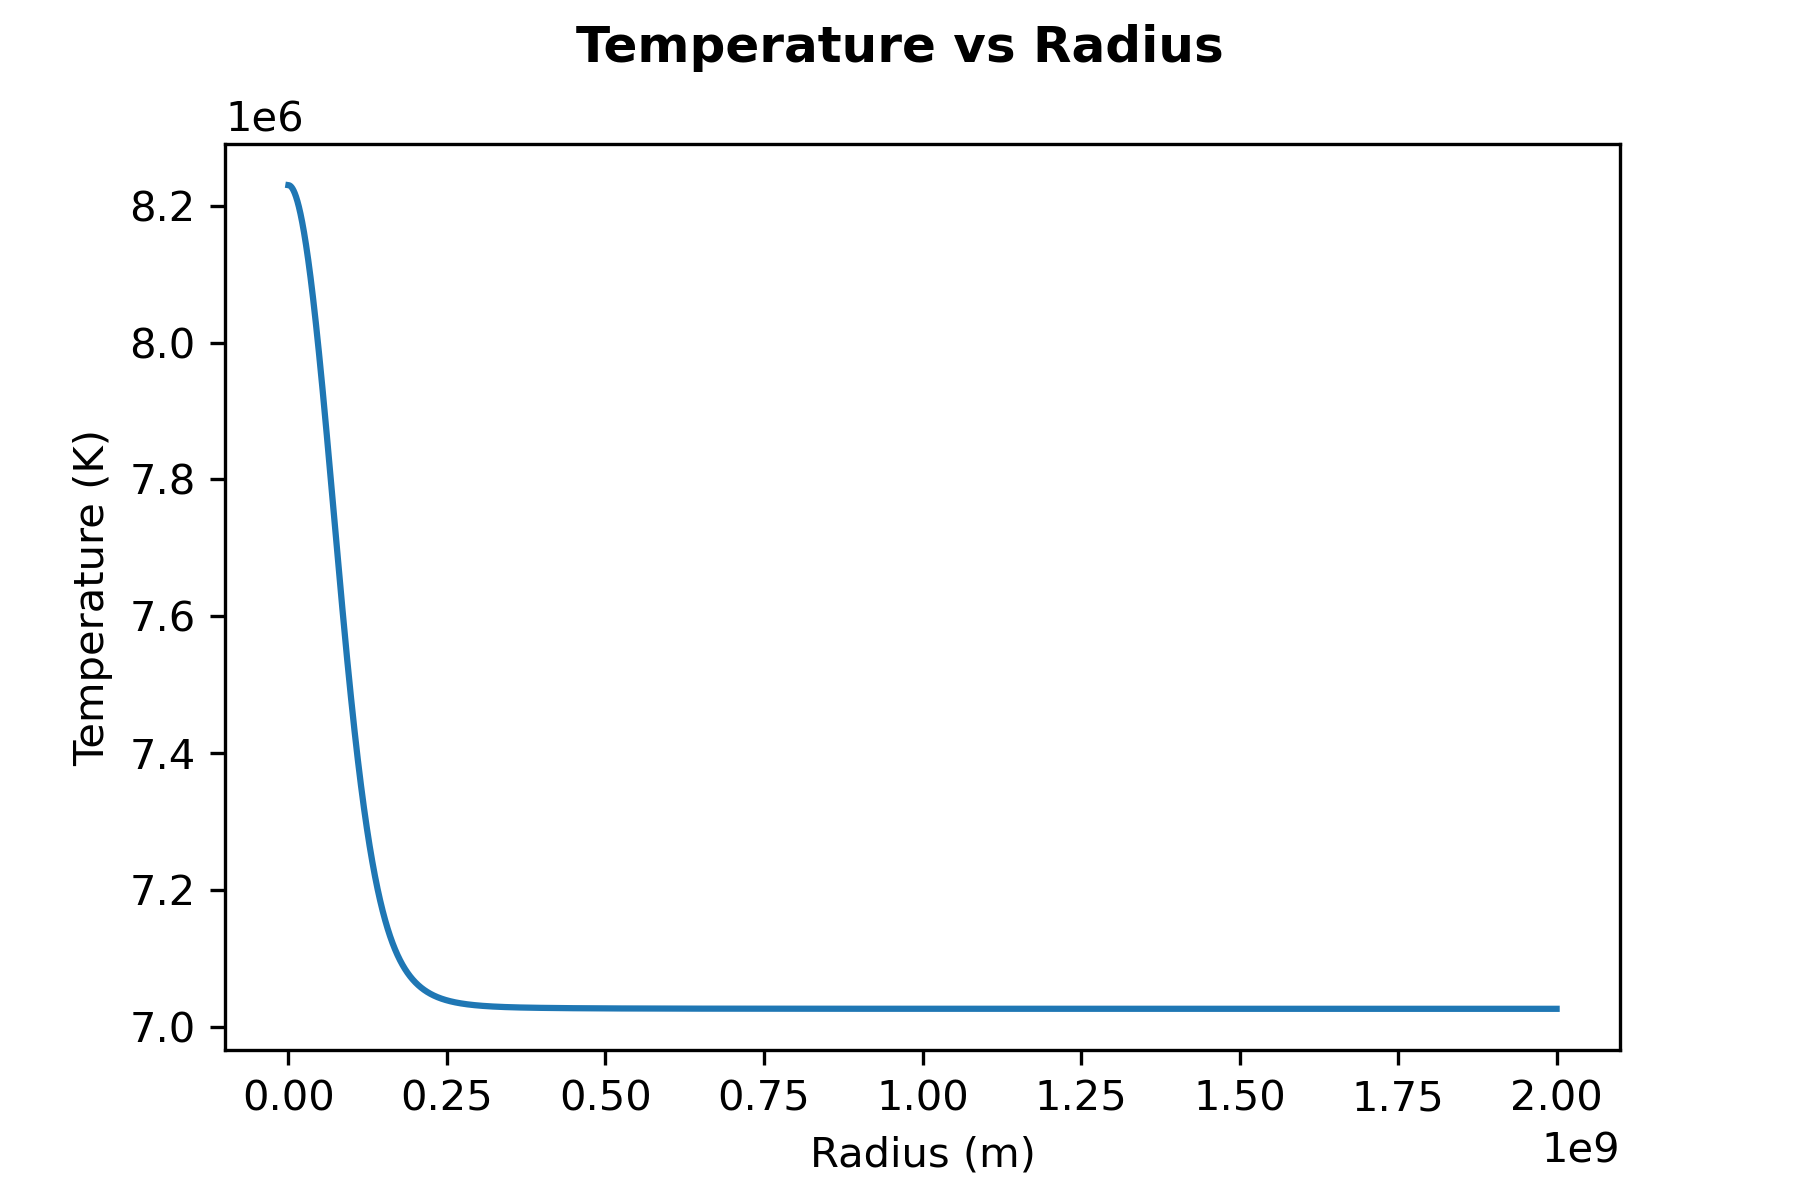
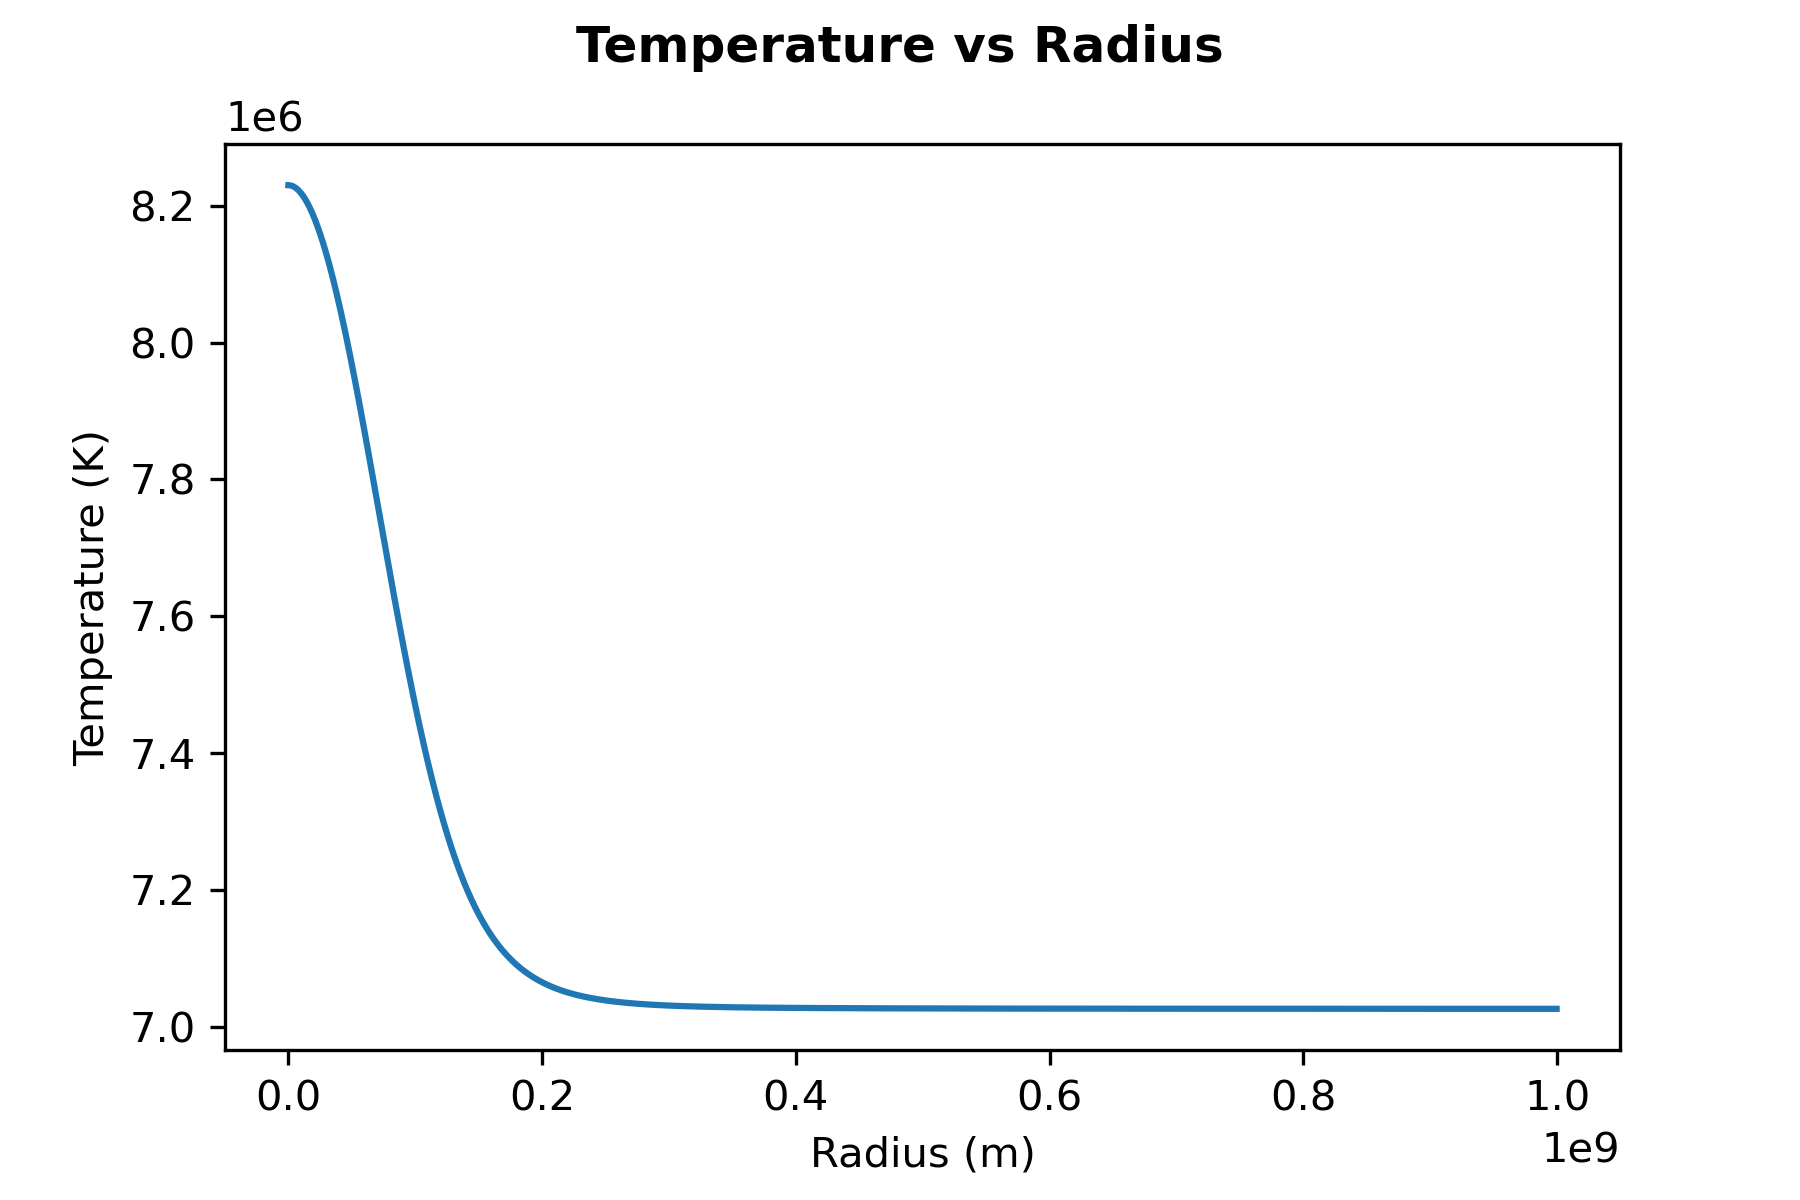
Changed directory names
Changed the directory paths for the GitHub instead of old folder.

diff --git a/Phys375_FinalProject.py b/Phys375_FinalProject.py
@@ -373,7 +373,7 @@ def main():
     RK_obj = RK45(All_Gradients, r, [p, T, M, L, t], max_step=dr,
                   t_bound=10**12)
     
-    N_steps = 2*10**4
+    N_steps = 10**4
     for i in range(N_steps):
         
         RK_obj.step()
@@ -406,7 +406,7 @@ def main():
     ax1.ticklabel_format(axis='both', scilimits=(0,0))
    # ax1.set_yscale('log')##################
     fig1.savefig(os.path.join(os.path.abspath(
-            r"C:\Users\James\Documents\Phys 375_Stars_W2021\Final_Plots"),
+            r"C:\Users\James\Documents\GitHub\Phys375_FinalProject\Final_Plots"),
             "Density_Radius.png"))
     
     fig2, ax2 = plt.subplots(dpi=300)
@@ -417,7 +417,7 @@ def main():
     ax2.ticklabel_format(axis='both', scilimits=(0,0))
   #  ax2.set_yscale('log')####################
     fig2.savefig(os.path.join(os.path.abspath(
-            r"C:\Users\James\Documents\Phys 375_Stars_W2021\Final_Plots"),
+            r"C:\Users\James\Documents\GitHub\Phys375_FinalProject\Final_Plots"),
             "Temperature_Radius.png"))
     
     fig3, ax3 = plt.subplots(dpi=300)
@@ -428,7 +428,7 @@ def main():
     ax3.ticklabel_format(axis='both', scilimits=(0,0))
   #  ax3.set_yscale('log')#####################
     fig3.savefig(os.path.join(os.path.abspath(
-            r"C:\Users\James\Documents\Phys 375_Stars_W2021\Final_Plots"),
+            r"C:\Users\James\Documents\GitHub\Phys375_FinalProject\Final_Plots"),
             "Energy_Generation_Radius.png"))
     
     fig4, ax4 = plt.subplots(dpi=300)
@@ -439,7 +439,7 @@ def main():
     ax4.ticklabel_format(axis='both', scilimits=(0,0))
   #  ax4.set_yscale('log')#####################
     fig4.savefig(os.path.join(os.path.abspath(
-            r"C:\Users\James\Documents\Phys 375_Stars_W2021\Final_Plots"),
+            r"C:\Users\James\Documents\GitHub\Phys375_FinalProject\Final_Plots"),
             "Opacity_Radius.png"))
     
     fig5, ax5 = plt.subplots(dpi=300)
@@ -450,7 +450,7 @@ def main():
     ax5.ticklabel_format(axis='both', scilimits=(0,0))
   #  ax5.set_yscale('log')#####################
     fig5.savefig(os.path.join(os.path.abspath(
-            r"C:\Users\James\Documents\Phys 375_Stars_W2021\Final_Plots"),
+            r"C:\Users\James\Documents\GitHub\Phys375_FinalProject\Final_Plots"),
             "Pressure_Radius.png"))
     
     fig6, ax6 = plt.subplots(dpi=300)
@@ -461,7 +461,7 @@ def main():
     ax6.ticklabel_format(axis='both', scilimits=(0,0))
   #  ax6.set_yscale('log')####################
     fig6.savefig(os.path.join(os.path.abspath(
-            r"C:\Users\James\Documents\Phys 375_Stars_W2021\Final_Plots"),
+            r"C:\Users\James\Documents\GitHub\Phys375_FinalProject\Final_Plots"),
             "Mass_Radius.png"))
     
     fig7, ax7 = plt.subplots(dpi=300)
@@ -472,7 +472,7 @@ def main():
     ax7.ticklabel_format(axis='both', scilimits=(0,0))
   #  ax7.set_yscale('log')#######################
     fig7.savefig(os.path.join(os.path.abspath(
-            r"C:\Users\James\Documents\Phys 375_Stars_W2021\Final_Plots"),
+            r"C:\Users\James\Documents\GitHub\Phys375_FinalProject\Final_Plots"),
             "Luminosity_Radius.png"))
     
     fig8, ax8 = plt.subplots(dpi=300)
@@ -483,7 +483,7 @@ def main():
     ax8.ticklabel_format(axis='both', scilimits=(0,0))
   #  ax8.set_yscale('log')########################
     fig8.savefig(os.path.join(os.path.abspath(
-            r"C:\Users\James\Documents\Phys 375_Stars_W2021\Final_Plots"),
+            r"C:\Users\James\Documents\GitHub\Phys375_FinalProject\Final_Plots"),
             "Optical_Depth_Radius.png"))
     
     fig9, ax9 = plt.subplots(dpi=300)
@@ -494,7 +494,7 @@ def main():
     ax9.ticklabel_format(axis='both', scilimits=(0,0))
   #  ax9.set_yscale('log')#######################
     fig9.savefig(os.path.join(os.path.abspath(
-            r"C:\Users\James\Documents\Phys 375_Stars_W2021\Final_Plots"),
+            r"C:\Users\James\Documents\GitHub\Phys375_FinalProject\Final_Plots"),
             "Mass_Gradient_Radius.png"))
     
     fig10, ax10 = plt.subplots(dpi=300)
@@ -505,7 +505,7 @@ def main():
     ax10.ticklabel_format(axis='both', scilimits=(0,0))
  #   ax10.set_yscale('log')########################
     fig10.savefig(os.path.join(os.path.abspath(
-            r"C:\Users\James\Documents\Phys 375_Stars_W2021\Final_Plots"),
+            r"C:\Users\James\Documents\GitHub\Phys375_FinalProject\Final_Plots"),
             "Luminosity_Gradient_Radius.png"))
     
     fig11, ax11 = plt.subplots(dpi=300)
@@ -515,7 +515,7 @@ def main():
     fig11.suptitle('Temperature Gradient vs Radius', weight='bold')
     ax11.ticklabel_format(axis='both', scilimits=(0,0))
     fig11.savefig(os.path.join(os.path.abspath(
-            r"C:\Users\James\Documents\Phys 375_Stars_W2021\Final_Plots"),
+            r"C:\Users\James\Documents\GitHub\Phys375_FinalProject\Final_Plots"),
             "Temperature_Gradient_Radius.png"))
     
     fig12, ax12 = plt.subplots(dpi=300)
@@ -525,7 +525,7 @@ def main():
     fig12.suptitle('Density Gradient vs Radius', weight='bold')
     ax12.ticklabel_format(axis='both', scilimits=(0,0))
     fig12.savefig(os.path.join(os.path.abspath(
-            r"C:\Users\James\Documents\Phys 375_Stars_W2021\Final_Plots"),
+            r"C:\Users\James\Documents\GitHub\Phys375_FinalProject\Final_Plots"),
             "Density_Gradient_Radius.png"))
     
     fig13, ax13 = plt.subplots(dpi=300)
@@ -536,7 +536,7 @@ def main():
     ax13.ticklabel_format(axis='both', scilimits=(0,0))
   #  ax13.set_yscale('log')########################
     fig13.savefig(os.path.join(os.path.abspath(
-            r"C:\Users\James\Documents\Phys 375_Stars_W2021\Final_Plots"),
+            r"C:\Users\James\Documents\GitHub\Phys375_FinalProject\Final_Plots"),
             "Optical_Depth_Gradient_Radius.png"))
     
     
